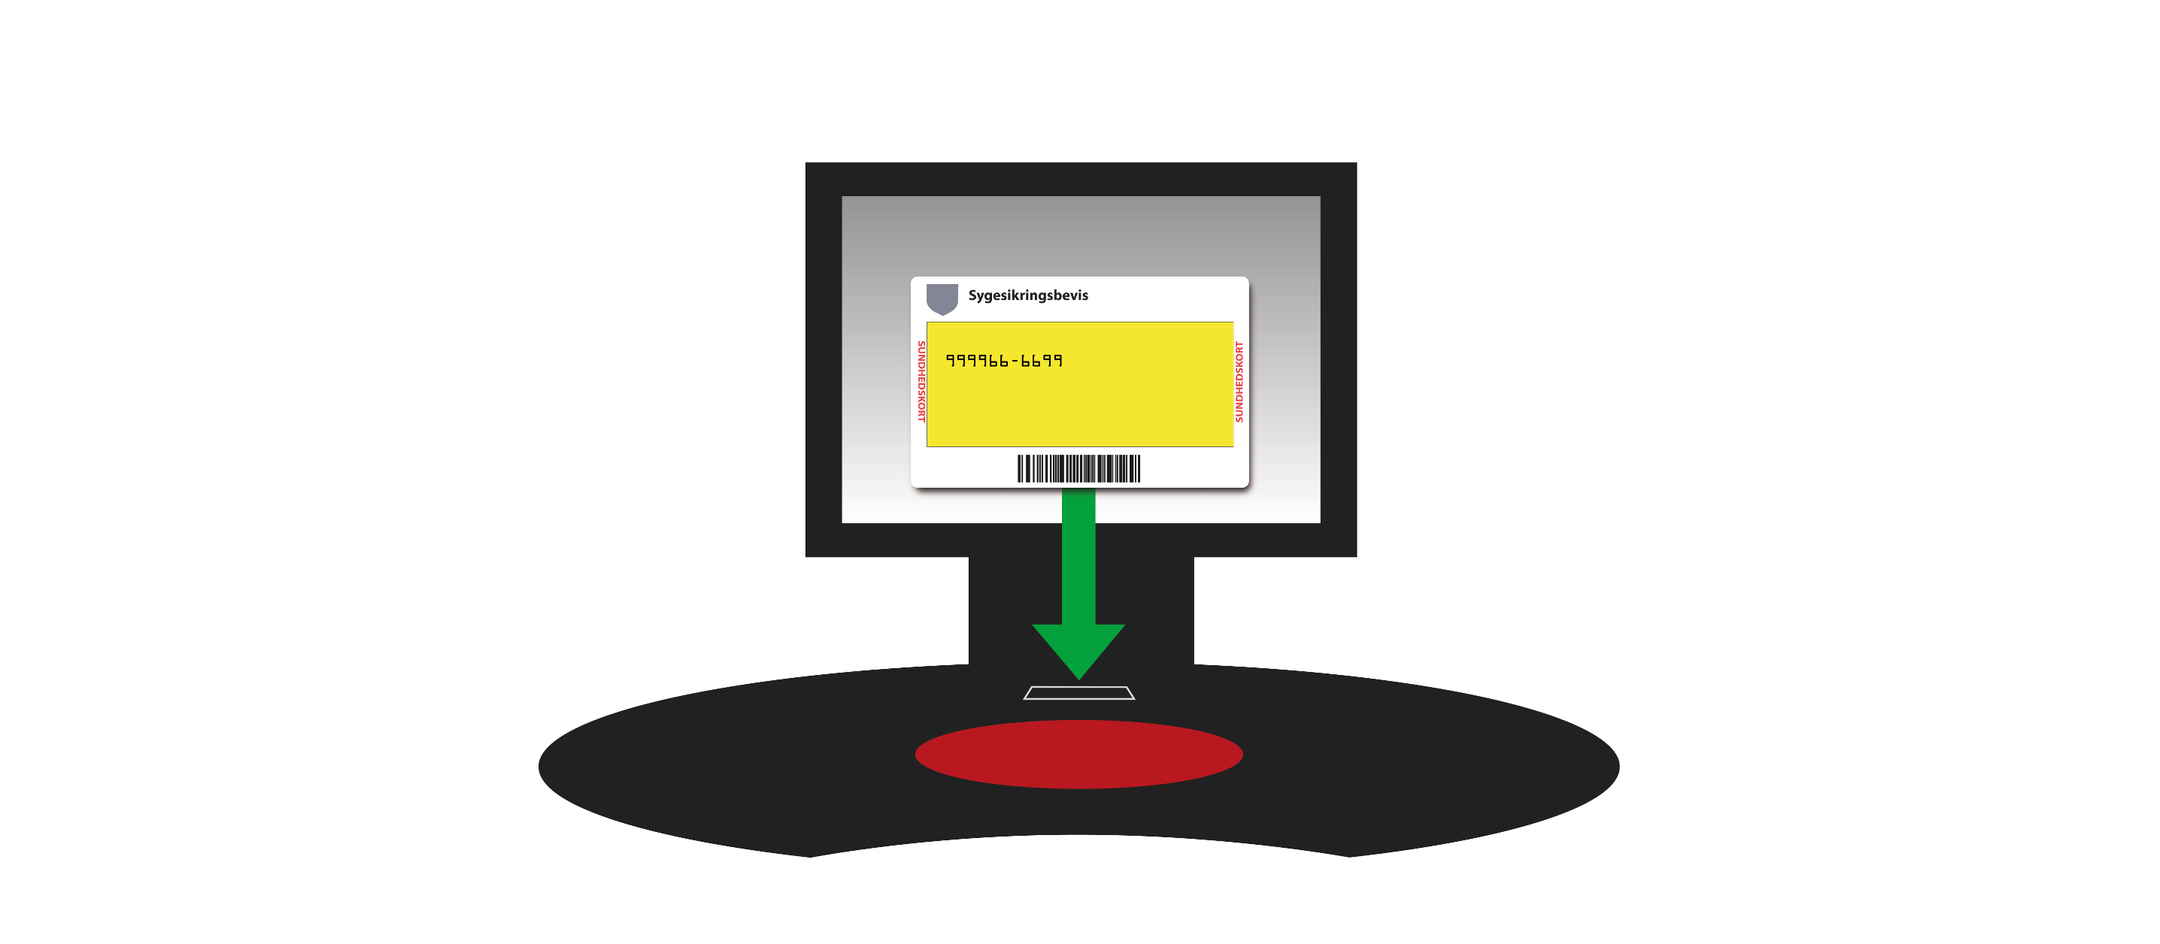
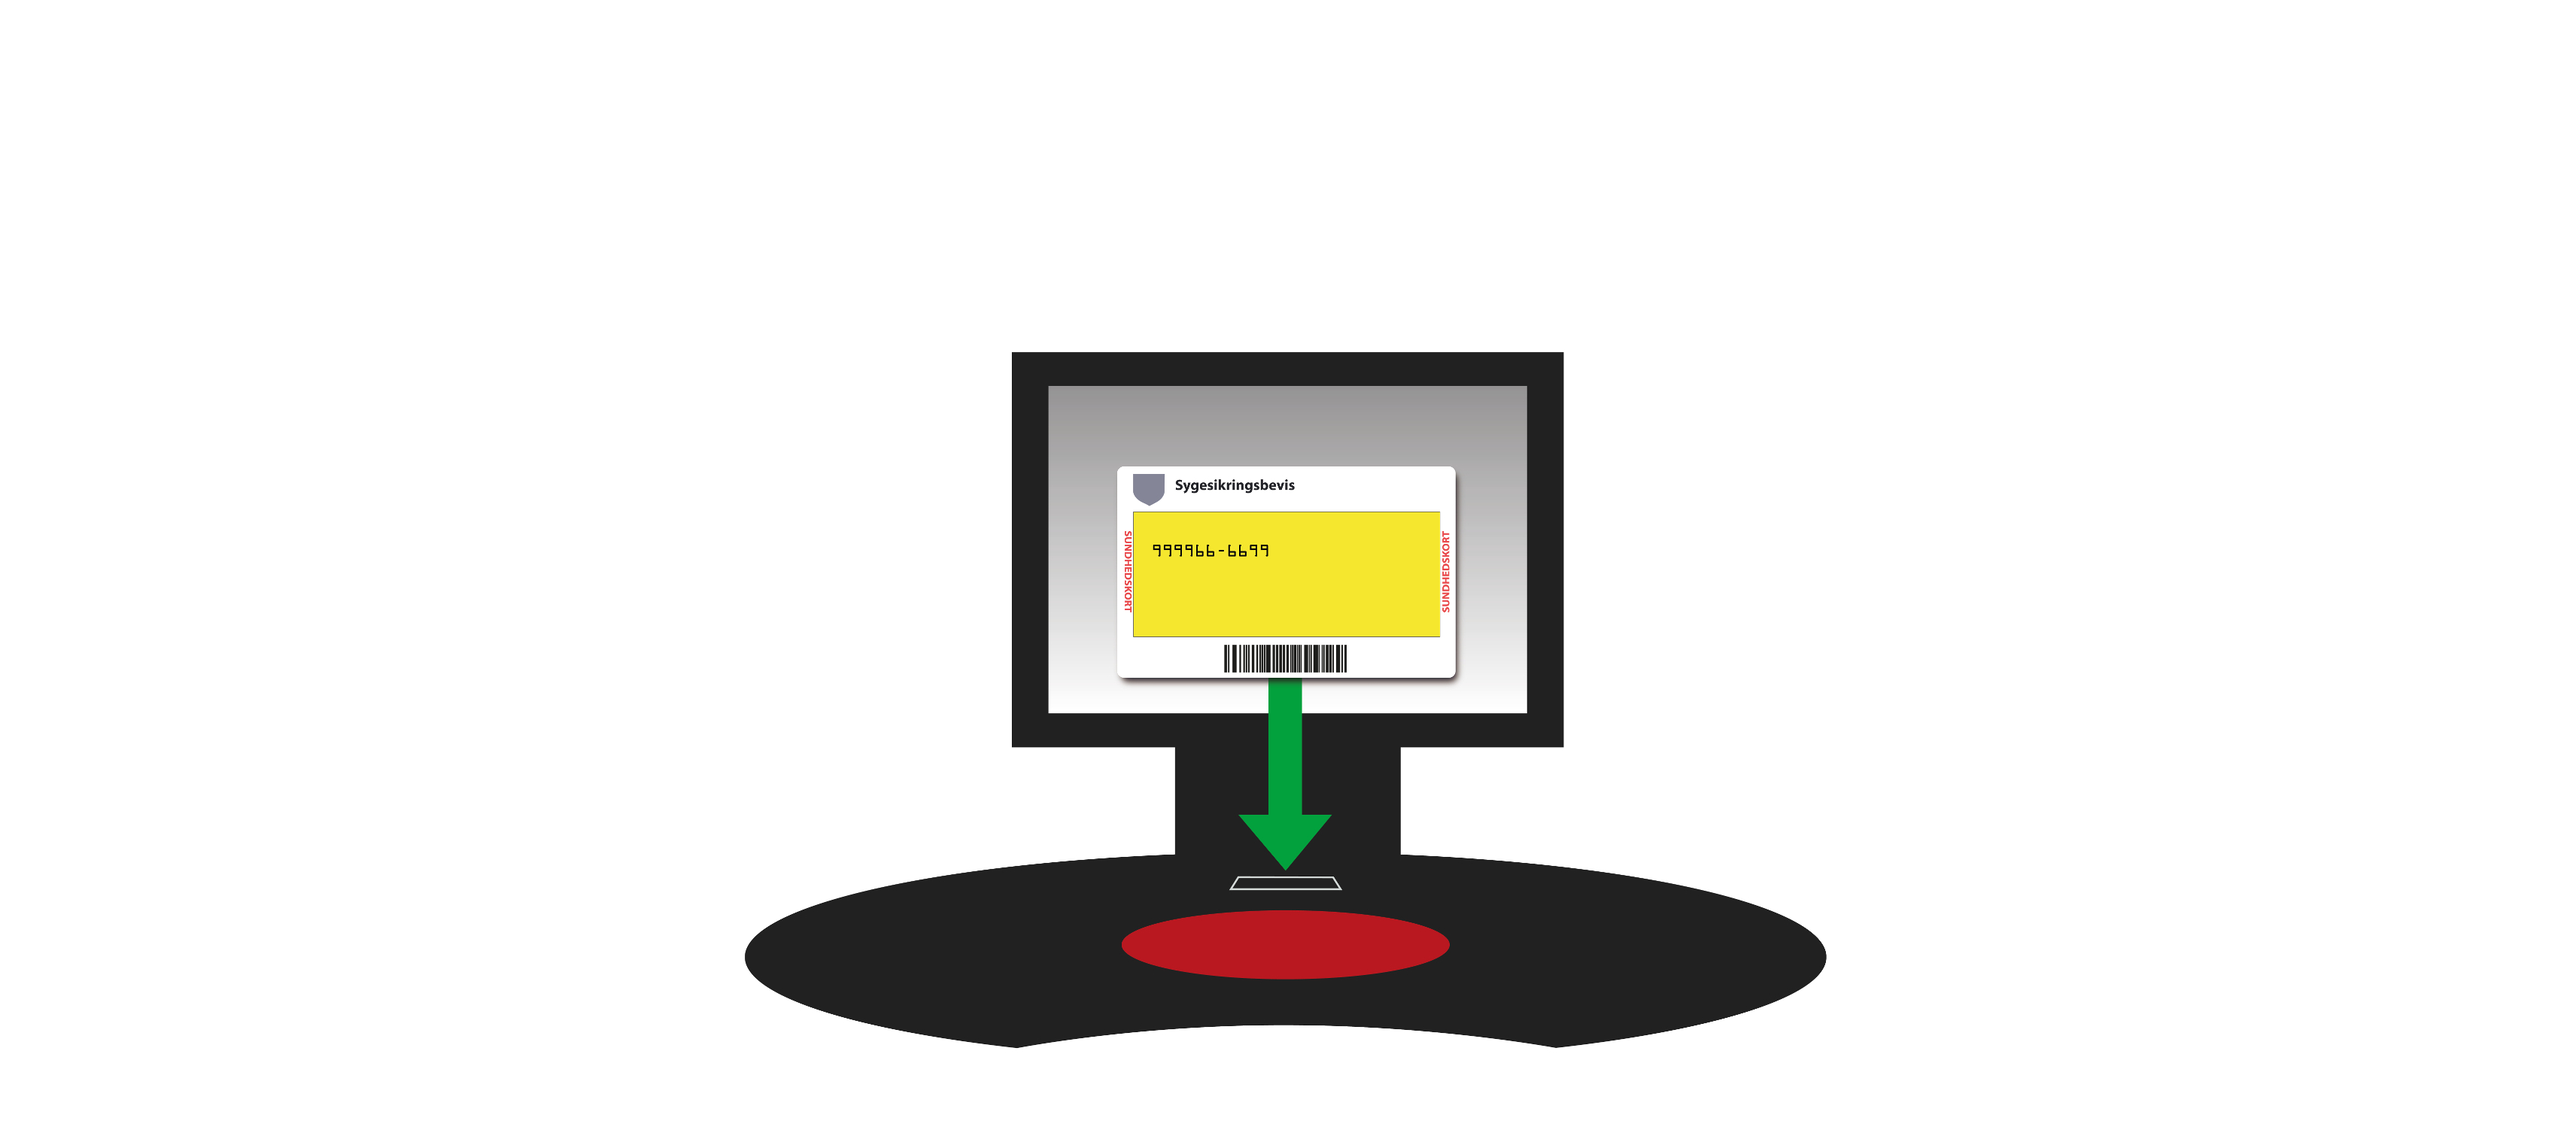
Larger buttens - 150%

Changed region(s): [[0.2479, 0.1553, 0.7747, 0.9315]]

diff --git a/public/css/style.css b/public/css/style.css
@@ -21,23 +21,23 @@ body {
 
 .button {
   min-width: 200px;
-  font-size: 1.6em;
-  padding: .6em;
-  margin: 1em;
+  font-size: 2.4em;
+  padding: .9em;
+  margin: 1.5em;
 }
 
 .button-small {
-  min-width: 110px;
-  font-size: 1.3em;
-  padding: .6em;
-  margin: 1em;
+  min-width: 165px;
+  font-size: 1.95em;
+  padding: .9em;
+  margin: 1.5em;
 }
 
 .container {
   text-align: center;
   max-height: 750px;
   overflow: hidden;
-  width: 1500px;
+  width: 1920px;
 }
 
 .language-icon {
@@ -62,43 +62,43 @@ body {
 }
 
 .numpad-key {
-  width: 80px;
-  height: 80px;
-  font-size: 1.8em;
-  padding: .7em;
-  margin: 5px;
+  width: 120px;
+  height: 120px;
+  font-size: 2.7em;
+  padding: 1.05em;
+  margin: 7px;
 }
 
 .numpad-container {
   text-align: center;
   margin: 0 auto;
-  padding: 1em;
-  width: 450px;
+  padding: 1.5em;
+  width: 675px;
 }
 
 .numpad-key-zero {
-  width: 270px;
-  height: 80px;
-  font-size: 1.8em;
-  padding: .7em;
-  margin: 5px;
+  width: 405px;
+  height: 120px;
+  font-size: 2.7em;
+  padding: 1.05em;
+  margin: 7px;
 }
 
 .numpad-enter {
-  width: 120px;
-  height: 260px;
-  font-size: 1.8em;
-  padding: .7em;
-  padding-top: 3.8em;
-  margin: 5px;
+  width: 180px;
+  height: 390px;
+  font-size: 2.7em;
+  padding: 1.05em;
+  padding-top: 5.7em;
+  margin: 7px;
 }
 
 .numpad-back {
-  width: 120px;
-  height: 80px;
-  font-size: 1.8em;
-  padding: .7em;
-  margin: 5px;
+  width: 180px;
+  height: 120px;
+  font-size: 2.7em;
+  padding: 1.05em;
+  margin: 7px;
 }
 
 .numpad-float {
@@ -323,13 +323,13 @@ h4 {
 }
 
 .numpad-input-group > .input-group-addon {
-  font-size: 1.6em;
-  height: 60px;
+  font-size: 2.4em;
+  height: 90px;
 }
 
 .numpad-input-group > .form-control {
-  font-size: 1.6em;
-  height: 60px;
+  font-size: 2.4em;
+  height: 90px;
 }
 
 .header-headline {
